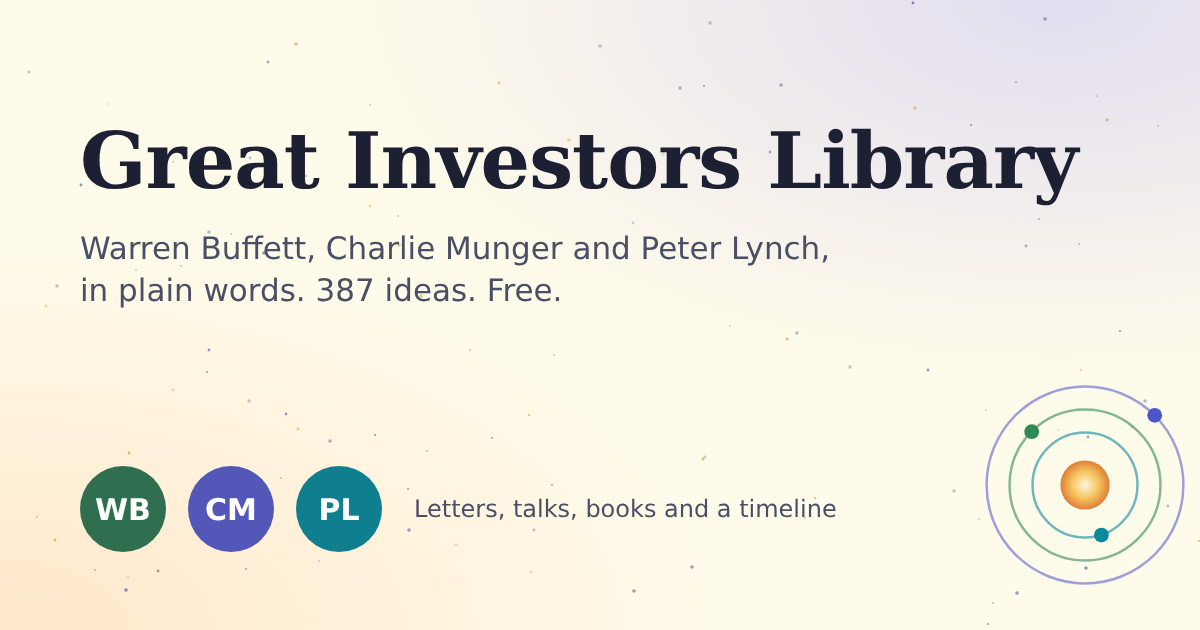
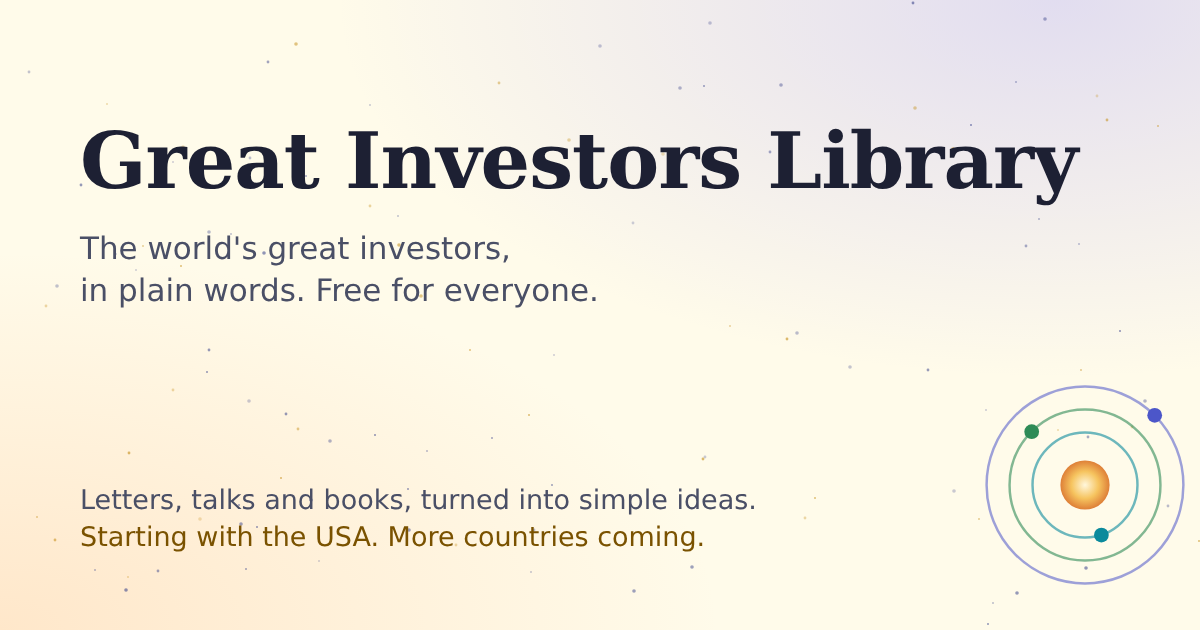
Add files via upload

Changed region(s): [[0.0617, 0.7238, 0.7092, 0.8746], [0.0617, 0.3619, 0.7092, 0.4825]]

diff --git a/index.html b/index.html
@@ -4,14 +4,14 @@
 <meta charset="utf-8">
 <meta name="viewport" content="width=device-width, initial-scale=1">
 <meta name="theme-color" content="#fbfbf7">
-<title>Great Investors Library: Buffett, Munger and Lynch in plain words</title>
-<meta name="description" content="Learn investing from Warren Buffett, Charlie Munger and Peter Lynch, in plain words. Free. 387 ideas from their letters, talks and books, a century timeline, and a could-you-have-held-on test."><link rel="canonical" href="https://greatinvestorslibrary.github.io/">
-<meta property="og:type" content="website"><meta property="og:site_name" content="Great Investors Library"><meta property="og:title" content="Great Investors Library: Buffett, Munger and Lynch in plain words">
-<meta property="og:description" content="Learn investing from Warren Buffett, Charlie Munger and Peter Lynch, in plain words. Free. 387 ideas from their letters, talks and books, a century timeline, and a could-you-have-held-on test."><meta property="og:url" content="https://greatinvestorslibrary.github.io/"><meta property="og:image" content="https://greatinvestorslibrary.github.io/og-image.png">
+<title>Great Investors Library: the world's great investors, in plain words</title>
+<meta name="description" content="Learn investing from the world&#x27;s great investors, in plain words. Free. 387 ideas from their letters, talks and books, starting with Warren Buffett, Charlie Munger and Peter Lynch, plus a century timeline and a could-you-have-held-on test."><link rel="canonical" href="https://greatinvestorslibrary.github.io/">
+<meta property="og:type" content="website"><meta property="og:site_name" content="Great Investors Library"><meta property="og:title" content="Great Investors Library: the world's great investors, in plain words">
+<meta property="og:description" content="Learn investing from the world&#x27;s great investors, in plain words. Free. 387 ideas from their letters, talks and books, starting with Warren Buffett, Charlie Munger and Peter Lynch, plus a century timeline and a could-you-have-held-on test."><meta property="og:url" content="https://greatinvestorslibrary.github.io/"><meta property="og:image" content="https://greatinvestorslibrary.github.io/og-image.png">
 <meta property="og:image:width" content="1200"><meta property="og:image:height" content="630"><meta name="twitter:card" content="summary_large_image">
-<meta name="twitter:title" content="Great Investors Library: Buffett, Munger and Lynch in plain words"><meta name="twitter:description" content="Learn investing from Warren Buffett, Charlie Munger and Peter Lynch, in plain words. Free. 387 ideas from their letters, talks and books, a century timeline, and a could-you-have-held-on test."><meta name="twitter:image" content="https://greatinvestorslibrary.github.io/og-image.png">
+<meta name="twitter:title" content="Great Investors Library: the world's great investors, in plain words"><meta name="twitter:description" content="Learn investing from the world&#x27;s great investors, in plain words. Free. 387 ideas from their letters, talks and books, starting with Warren Buffett, Charlie Munger and Peter Lynch, plus a century timeline and a could-you-have-held-on test."><meta name="twitter:image" content="https://greatinvestorslibrary.github.io/og-image.png">
 <link rel="icon" href="favicon.svg" type="image/svg+xml">
-<script type="application/ld+json">{"@context": "https://schema.org", "@type": "WebSite", "name": "Great Investors Library", "url": "https://greatinvestorslibrary.github.io/", "description": "Learn investing from Warren Buffett, Charlie Munger and Peter Lynch, in plain words. Free. 387 ideas from their letters, talks and books, a century timeline, and a could-you-have-held-on test.", "inLanguage": "en", "isAccessibleForFree": true}</script>
+<script type="application/ld+json">{"@context": "https://schema.org", "@type": "WebSite", "name": "Great Investors Library", "url": "https://greatinvestorslibrary.github.io/", "description": "Learn investing from the world's great investors, in plain words. Free. 387 ideas from their letters, talks and books, starting with Warren Buffett, Charlie Munger and Peter Lynch, plus a century timeline and a could-you-have-held-on test.", "inLanguage": "en", "isAccessibleForFree": true}</script>
 
 <style>
 /* Mobile-first. One column, vertical scrolling only. Bottom tab bar on phones, top tabs on wide screens.
@@ -953,6 +953,12 @@ details.acc.opening[open]>.accb{animation:accin .28s ease both}
 ::placeholder{color:#6b7177;opacity:1}
 @media (prefers-color-scheme: dark){ ::placeholder{color:#a3aaa6} }
 .foot .flinks{display:flex;flex-wrap:wrap;gap:6px 14px;margin-top:6px}
+/* country row */
+.ctry{display:flex;flex-wrap:wrap;align-items:center;justify-content:center;gap:8px;margin:28px 0 0}
+.ctry button{min-height:36px;padding:0 14px;border-radius:18px;border:1px solid var(--rule);background:var(--card);color:var(--ink);font-size:.9rem;font-weight:600;cursor:pointer}
+.ctry button.on{background:var(--ink);color:var(--paper);border-color:var(--ink)}
+.ctry .soon{font-size:.82rem;color:var(--muted)}
+.ctry+.picks{margin-top:14px}
 
 /* ================= TIMELINE · daytime astronomy (light lemon) =================
    In light mode the Timeline uses the same light ground as the rest of the site: a pale lemon sky with faint
@@ -1049,7 +1055,7 @@ html:root[data-pack="timeline"] .aM .dot,html:root[data-pack="timeline"] .aB .do
 </head>
 <body>
 <main id="app"></main>
-<noscript><div style='max-width:680px;margin:0 auto;padding:20px'><h1>Great Investors Library</h1><p>Learn investing from Warren Buffett, Charlie Munger and Peter Lynch, in plain words. Free.</p><ul><li><a href='buffett.html'>buffett.html</a></li><li><a href='munger.html'>munger.html</a></li><li><a href='lynch.html'>lynch.html</a></li><li><a href='timeline.html'>timeline.html</a></li><li><a href='library.html'>library.html</a></li><li><a href='about.html'>about.html</a></li></ul></div></noscript>
+<noscript><div style='max-width:680px;margin:0 auto;padding:20px'><h1>Great Investors Library</h1><p>Learn investing from the world&#x27;s great investors, in plain words. Free.</p><ul><li><a href='buffett.html'>buffett.html</a></li><li><a href='munger.html'>munger.html</a></li><li><a href='lynch.html'>lynch.html</a></li><li><a href='timeline.html'>timeline.html</a></li><li><a href='library.html'>library.html</a></li><li><a href='about.html'>about.html</a></li></ul></div></noscript>
 <nav aria-label="All pages" style="position:absolute;left:-9999px;top:auto;width:1px;height:1px;overflow:hidden"><a href="library.html">All pages</a> <a href="buffett.html">Warren Buffett</a> <a href="munger.html">Charlie Munger</a> <a href="lynch.html">Peter Lynch</a> <a href="timeline.html">Timeline</a></nav>
 <div id="tlPopHost"></div>
 <button id="toTop" aria-label="Back to top">↑</button>
@@ -1958,7 +1964,7 @@ const stripHead = h => h.replace(/^\s*<span class="eyebrow">[^<]*<\/span><h2>[^<
 function renderSecs(secs){ return secs.map((s,i)=>`<section class="psec" id="s-${s.id}"><header class="psh"><span class="psn">${i+1}</span><div><h2>${esc(s.title)}</h2>${s.sub?`<p class="ssub">${esc(s.sub)}</p>`:""}</div></header><div class="sb" id="sb-${s.id}">${s.html()}</div></section>`).join(""); }
 function topbar(title){ return `<div class="topbar"><div class="topbar-in"><a class="tback" href="#" aria-label="Back to the library">‹ Library</a><span class="bt">${esc(title)}</span><button class="cbtn" id="cBtn" aria-expanded="false" aria-controls="cMenu">Contents</button></div>
   <nav class="cmenu" id="cMenu" hidden><ol>${V4.secs.map(s=>`<li><button data-go="${s.id}">${esc(s.title)}</button></li>`).join("")}</ol></nav></div>`; }
-function footNote(){ return `<footer class="foot"><p>Great Investors Library is a free, independent study guide, for education only. It is not investment advice. Not affiliated with Berkshire Hathaway or any person or publisher named.</p><p class="flinks"><a href="#about">About and disclaimer</a><a href="#privacy">Privacy</a><a href="#terms">Terms of use</a></p></footer>`; }
+function footNote(){ return `<footer class="foot"><p>Great Investors Library is a free, independent study guide, for education only. It is not investment advice. Not affiliated with any person, company or publisher named.</p><p class="flinks"><a href="#about">About and disclaimer</a><a href="#privacy">Privacy</a><a href="#terms">Terms of use</a></p></footer>`; }
 
 /* ---------- home ---------- */
 function searchIndex(){ if(searchIndex.v) return searchIndex.v; const out=[];
@@ -1975,18 +1981,26 @@ function searchHTML(q){ q=q.trim().toLowerCase(); if(q.length<2) return "";
   const name=pid=>pid==="timeline"?"Timeline":PACKS[pid].short, mark=s=>{ let o=esc(s); words.forEach(w=>{ if(w.length>1) o=o.replace(new RegExp("("+w.replace(/[.*+?^${}()|[\]\\]/g,"\\$&")+")","ig"),"<mark>$1</mark>"); }); return o; };
   if(!hits.length) return `<p class="qnone">Nothing found for “${esc(q)}”. Try a simpler word, like <button class="golink" data-q="moat">moat</button>, <button class="golink" data-q="debt">debt</button> or <button class="golink" data-q="patience">patience</button>.</p>`;
   return `<p class="qcount">${hits.length} result${hits.length>1?"s":""}${hits.length>30?", showing the first 30":""}</p><ul class="qres">${hits.slice(0,30).map(r=>`<li><a href="${r.h}"><span class="qk">${esc(name(r.pid))} · ${esc(r.k)}</span><b>${mark(r.t)}</b><span class="qx">${mark(r.x.length>170?r.x.slice(0,167)+"…":r.x)}</span></a></li>`).join("")}</ul>`; }
+/* countries: add an entry here when the first investor from a new country joins; the row grows on its own */
+const COUNTRIES=[
+  {id:"usa", name:"USA", flag:"🇺🇸", picks:[
+    ["#buffett","WB","a-buffett","Warren Buffett","His 30 letters to Berkshire owners, 1995 to 2024"],
+    ["#munger","CM","a-munger","Charlie Munger","His talks and letters on thinking clearly, 1982 to 2014"],
+    ["#lynch","PL","a-lynch","Peter Lynch","His books and talks on finding good stocks yourself"],
+    ["#timeline","✦","a-timeline","The Timeline","Their three lives and one century, 1924 to today"]]},
+];
+V4.country = V4.country || COUNTRIES[0].id;
 function homeHTML(){ const total=INV.reduce((s,pid)=>s+Object.keys(PACKS[pid].nuggets).length+PACKS[pid].themes.length,0);
+  const C=COUNTRIES.find(c=>c.id===V4.country)||COUNTRIES[0];
   const pick=(h,ava,cls,t,sub)=>`<a class="pick" href="${h}"><span class="ava ${cls}">${ava}</span><span class="pt"><b>${t}</b><span>${sub}</span></span><span class="pgo" aria-hidden="true">›</span></a>`;
   return `<div class="home">
   <h1 class="logo">Great Investors Library</h1>
-  <p class="tagline">Learn investing from Warren Buffett, Charlie Munger and Peter Lynch, in plain words. Free.</p>
+  <p class="tagline">Learn investing from the world's great investors, in plain words. Free.</p>
   <div class="search"><input id="q" type="search" autocomplete="off" placeholder="Search ${total} ideas, e.g. moat" aria-label="Search the library" value="${esc(V4.q)}"></div>
   <div id="qres">${searchHTML(V4.q)}</div>
-  <nav class="picks" aria-label="Choose">
-    ${pick("#buffett","WB","a-buffett","Warren Buffett","His 30 letters to Berkshire owners, 1995 to 2024")}
-    ${pick("#munger","CM","a-munger","Charlie Munger","His talks and letters on thinking clearly, 1982 to 2014")}
-    ${pick("#lynch","PL","a-lynch","Peter Lynch","His books and talks on finding good stocks yourself")}
-    ${pick("#timeline","✦","a-timeline","The Timeline","Three lives and one century, 1924 to today")}
+  <div class="ctry" role="group" aria-label="Choose a country">${COUNTRIES.map(c=>`<button data-country="${c.id}" class="${c.id===C.id?"on":""}" aria-pressed="${c.id===C.id}"><span aria-hidden="true">${c.flag}</span> ${esc(c.name)}</button>`).join("")}<span class="soon">More countries coming</span></div>
+  <nav class="picks" aria-label="Investors from ${esc(C.name)}">
+    ${C.picks.map(x=>pick(...x)).join("")}
   </nav>
   <p class="new">New here? Start with <a href="#buffett">Buffett</a>. Then take the <a href="#timeline-invest">could-you-have-held-on test</a>.</p>
   <p class="hlinks"><a href="#journey">The builder's own record</a><span>·</span><a href="#about">About and disclaimer</a></p>
@@ -2115,7 +2129,7 @@ function journeyPage(){ const h=J.hero;
 /* ---------- about ---------- */
 function aboutPage(){
   V4.secs=[
-    sec("what","What this is","",()=>bl(["A free, independent study room for reading great investors in their own words.","Warren Buffett, Charlie Munger and Peter Lynch each have one page, built the same way: a five-minute summary, the big ideas, his special section, his own words, the originals, a test and a plan.","The Timeline sets all three lives side by side, year by year, from 1924 to today."],"plain")),
+    sec("what","What this is","",()=>bl(["A free, independent study room for learning from the world's great investors, in their own words and in plain ones.","Every investor gets one page, built the same way: a five-minute summary, the big ideas, his or her special section, their own words, the originals, a test and a plan.","It starts with the United States: Warren Buffett, Charlie Munger and Peter Lynch, plus a Timeline of their three lives. Investors from more countries will follow, chosen only where there is a public record of their own letters, books, talks or results."],"plain")),
     sec("words","Summaries and exact words","",()=>bl(["Every summary, idea and lesson is written in our own words.","Exact words appear only as short lines, with their source.","The originals are their authors' copyright, so longer passages are not reproduced. Each page links you to them."],"plain")),
     sec("disc","Disclaimer","",()=>`<div class="disc">${SITE_DISC.map(d=>`<p>${esc(d)}</p>`).join("")}</div>`),
   ];
@@ -2239,6 +2253,7 @@ document.addEventListener("click", e=>{
   const sm=e.target.closest("details.acc>summary"); if(sm && !REDUCED){ const d=sm.parentElement; if(!d.open){ d.classList.add("opening"); setTimeout(()=>d.classList.remove("opening"),400); } }
   const cb=e.target.closest("#cBtn"); if(cb){ const m=document.getElementById("cMenu"); m.hidden=!m.hidden; cb.setAttribute("aria-expanded", String(!m.hidden)); return; }
   const g=e.target.closest("[data-go]"); if(g){ e.preventDefault(); closeMenu(); const el = g.dataset.open ? openEl(g.dataset.open) : document.getElementById("s-"+g.dataset.go); scrollToEl(el, true); return; }
+  const cc=e.target.closest("[data-country]"); if(cc){ V4.country=cc.dataset.country; const app=document.getElementById("app"); app.innerHTML=homeHTML(); return; }
   const qb=e.target.closest("[data-q]"); if(qb){ const i=document.getElementById("q"); if(i){ i.value=qb.dataset.q; V4.q=i.value; document.getElementById("qres").innerHTML=searchHTML(V4.q); } return; }
   if(!e.target.closest("#cMenu")) closeMenu();
   const a=e.target.closest('a[href^="#"]'); if(a && !e.defaultPrevented){ const h=a.getAttribute("href"); if(h===location.hash || (h==="#" && !location.hash)){ e.preventDefault(); navigate(route(h)); } }

diff --git a/library.html b/library.html
@@ -8,5 +8,5 @@
 <link rel="icon" href="favicon.svg" type="image/svg+xml"><link rel="stylesheet" href="style.css">
 <script type="application/ld+json">{"@context": "https://schema.org", "@type": "Article", "headline": "All pages | Great Investors Library", "description": "Every page of the Great Investors Library: Buffett, Munger and Lynch, idea by idea, and the century timeline.", "url": "https://greatinvestorslibrary.github.io/library.html", "inLanguage": "en", "isAccessibleForFree": true, "publisher": {"@type": "Organization", "name": "Great Investors Library"}, "dateModified": "2026-11-24"}</script></head>
 <body><header class="b"><div class="w"><a href="index.html">Great Investors Library</a><a href="library.html">All pages</a></div></header>
-<main class="w"><h1>Every page in the library</h1><h2><a href='buffett.html'>Warren Buffett</a></h2><ol><li><a href='ideas/buffett-01-a-share-is-a-slice-of-a-business.html'>A share is a slice of a business</a></li><li><a href='ideas/buffett-02-moats-what-makes-a-business-worth-owning.html'>Moats: what makes a business worth owning</a></li><li><a href='ideas/buffett-03-price-value-and-the-margin-of-safety.html'>Price, value and the margin of safety</a></li><li><a href='ideas/buffett-04-mr-market-and-temperament.html'>Mr. Market and temperament</a></li><li><a href='ideas/buffett-05-activity-costs-and-patience.html'>Activity, costs and patience</a></li><li><a href='ideas/buffett-06-risk-debt-and-survival.html'>Risk, debt and survival</a></li><li><a href='ideas/buffett-07-circle-of-competence.html'>Circle of competence</a></li><li><a href='ideas/buffett-08-capital-allocation-what-happens-to-retained-profit.html'>Capital allocation: what happens to retained profit</a></li><li><a href='ideas/buffett-09-acquisitions-a-test-for-any-company-that-buys-others.html'>Acquisitions: a test for any company that buys others</a></li><li><a href='ideas/buffett-10-managers-pay-and-boards.html'>Managers, pay and boards</a></li><li><a href='ideas/buffett-11-accounting-read-like-an-owner.html'>Accounting: read like an owner</a></li><li><a href='ideas/buffett-12-insurance-float-and-the-discipline-of-saying-no.html'>Insurance: float and the discipline of saying no</a></li><li><a href='ideas/buffett-13-mistakes-his-own-list.html'>Mistakes: his own list</a></li><li><a href='ideas/buffett-14-productive-assets-inflation-and-the-long-view.html'>Productive assets, inflation and the long view</a></li></ol><h2><a href='munger.html'>Charlie Munger</a></h2><ol><li><a href='ideas/munger-01-a-latticework-of-models.html'>A latticework of models</a></li><li><a href='ideas/munger-02-invert-always-invert.html'>Invert, always invert</a></li><li><a href='ideas/munger-03-incentives.html'>Incentives</a></li><li><a href='ideas/munger-04-the-psychology-of-misjudgment.html'>The psychology of misjudgment</a></li><li><a href='ideas/munger-05-the-inner-life-envy-resentment-self-pity.html'>The inner life: envy, resentment, self-pity</a></li><li><a href='ideas/munger-06-reliability-trust-and-deserving.html'>Reliability, trust and deserving</a></li><li><a href='ideas/munger-07-learning-for-life.html'>Learning for life</a></li><li><a href='ideas/munger-08-objectivity-and-the-edge-of-what-you-know.html'>Objectivity and the edge of what you know</a></li><li><a href='ideas/munger-09-investing-few-great-and-then-sit.html'>Investing: few, great, and then sit</a></li><li><a href='ideas/munger-10-business-models-moats-and-scale.html'>Business models, moats and scale</a></li><li><a href='ideas/munger-11-costs-consultants-and-febezzlement.html'>Costs, consultants and febezzlement</a></li><li><a href='ideas/munger-12-accounting-honesty-and-candour.html'>Accounting, honesty and candour</a></li><li><a href='ideas/munger-13-adversity-patience-and-hard-work.html'>Adversity, patience and hard work</a></li><li><a href='ideas/munger-14-the-berkshire-system-in-his-words.html'>The Berkshire system, in his words</a></li></ol><h2><a href='lynch.html'>Peter Lynch</a></h2><ol><li><a href='ideas/lynch-01-the-amateurs-edge.html'>The amateur&#x27;s edge</a></li><li><a href='ideas/lynch-02-is-it-gambling-stocks-and-your-stomach.html'>Is it gambling? Stocks and your stomach</a></li><li><a href='ideas/lynch-03-look-in-your-own-backyard.html'>Look in your own backyard</a></li><li><a href='ideas/lynch-04-the-six-kinds-of-stock.html'>The six kinds of stock</a></li><li><a href='ideas/lynch-05-the-perfect-stock-and-the-ones-to-avoid.html'>The perfect stock, and the ones to avoid</a></li><li><a href='ideas/lynch-06-earnings-are-the-engine.html'>Earnings are the engine</a></li><li><a href='ideas/lynch-07-the-famous-numbers.html'>The famous numbers</a></li><li><a href='ideas/lynch-08-balance-sheet-first.html'>Balance sheet first</a></li><li><a href='ideas/lynch-09-the-two-minute-drill.html'>The two-minute drill</a></li><li><a href='ideas/lynch-10-ten-baggers-let-the-winners-run.html'>Ten-baggers: let the winners run</a></li><li><a href='ideas/lynch-11-dont-time-the-market.html'>Don&#x27;t time the market</a></li><li><a href='ideas/lynch-12-keep-checking-the-story.html'>Keep checking the story</a></li></ol><h2><a href='timeline.html'>The Timeline</a></h2><p><a href='index.html'>The interactive library</a> · <a href='about.html'>About</a> · <a href='privacy.html'>Privacy</a> · <a href='terms.html'>Terms of use</a></p>
+<main class="w"><h1>Every page in the library</h1><h2 style='border:0;padding-top:0'>🇺🇸 USA</h2><h2><a href='buffett.html'>Warren Buffett</a></h2><ol><li><a href='ideas/buffett-01-a-share-is-a-slice-of-a-business.html'>A share is a slice of a business</a></li><li><a href='ideas/buffett-02-moats-what-makes-a-business-worth-owning.html'>Moats: what makes a business worth owning</a></li><li><a href='ideas/buffett-03-price-value-and-the-margin-of-safety.html'>Price, value and the margin of safety</a></li><li><a href='ideas/buffett-04-mr-market-and-temperament.html'>Mr. Market and temperament</a></li><li><a href='ideas/buffett-05-activity-costs-and-patience.html'>Activity, costs and patience</a></li><li><a href='ideas/buffett-06-risk-debt-and-survival.html'>Risk, debt and survival</a></li><li><a href='ideas/buffett-07-circle-of-competence.html'>Circle of competence</a></li><li><a href='ideas/buffett-08-capital-allocation-what-happens-to-retained-profit.html'>Capital allocation: what happens to retained profit</a></li><li><a href='ideas/buffett-09-acquisitions-a-test-for-any-company-that-buys-others.html'>Acquisitions: a test for any company that buys others</a></li><li><a href='ideas/buffett-10-managers-pay-and-boards.html'>Managers, pay and boards</a></li><li><a href='ideas/buffett-11-accounting-read-like-an-owner.html'>Accounting: read like an owner</a></li><li><a href='ideas/buffett-12-insurance-float-and-the-discipline-of-saying-no.html'>Insurance: float and the discipline of saying no</a></li><li><a href='ideas/buffett-13-mistakes-his-own-list.html'>Mistakes: his own list</a></li><li><a href='ideas/buffett-14-productive-assets-inflation-and-the-long-view.html'>Productive assets, inflation and the long view</a></li></ol><h2><a href='munger.html'>Charlie Munger</a></h2><ol><li><a href='ideas/munger-01-a-latticework-of-models.html'>A latticework of models</a></li><li><a href='ideas/munger-02-invert-always-invert.html'>Invert, always invert</a></li><li><a href='ideas/munger-03-incentives.html'>Incentives</a></li><li><a href='ideas/munger-04-the-psychology-of-misjudgment.html'>The psychology of misjudgment</a></li><li><a href='ideas/munger-05-the-inner-life-envy-resentment-self-pity.html'>The inner life: envy, resentment, self-pity</a></li><li><a href='ideas/munger-06-reliability-trust-and-deserving.html'>Reliability, trust and deserving</a></li><li><a href='ideas/munger-07-learning-for-life.html'>Learning for life</a></li><li><a href='ideas/munger-08-objectivity-and-the-edge-of-what-you-know.html'>Objectivity and the edge of what you know</a></li><li><a href='ideas/munger-09-investing-few-great-and-then-sit.html'>Investing: few, great, and then sit</a></li><li><a href='ideas/munger-10-business-models-moats-and-scale.html'>Business models, moats and scale</a></li><li><a href='ideas/munger-11-costs-consultants-and-febezzlement.html'>Costs, consultants and febezzlement</a></li><li><a href='ideas/munger-12-accounting-honesty-and-candour.html'>Accounting, honesty and candour</a></li><li><a href='ideas/munger-13-adversity-patience-and-hard-work.html'>Adversity, patience and hard work</a></li><li><a href='ideas/munger-14-the-berkshire-system-in-his-words.html'>The Berkshire system, in his words</a></li></ol><h2><a href='lynch.html'>Peter Lynch</a></h2><ol><li><a href='ideas/lynch-01-the-amateurs-edge.html'>The amateur&#x27;s edge</a></li><li><a href='ideas/lynch-02-is-it-gambling-stocks-and-your-stomach.html'>Is it gambling? Stocks and your stomach</a></li><li><a href='ideas/lynch-03-look-in-your-own-backyard.html'>Look in your own backyard</a></li><li><a href='ideas/lynch-04-the-six-kinds-of-stock.html'>The six kinds of stock</a></li><li><a href='ideas/lynch-05-the-perfect-stock-and-the-ones-to-avoid.html'>The perfect stock, and the ones to avoid</a></li><li><a href='ideas/lynch-06-earnings-are-the-engine.html'>Earnings are the engine</a></li><li><a href='ideas/lynch-07-the-famous-numbers.html'>The famous numbers</a></li><li><a href='ideas/lynch-08-balance-sheet-first.html'>Balance sheet first</a></li><li><a href='ideas/lynch-09-the-two-minute-drill.html'>The two-minute drill</a></li><li><a href='ideas/lynch-10-ten-baggers-let-the-winners-run.html'>Ten-baggers: let the winners run</a></li><li><a href='ideas/lynch-11-dont-time-the-market.html'>Don&#x27;t time the market</a></li><li><a href='ideas/lynch-12-keep-checking-the-story.html'>Keep checking the story</a></li></ol><h2><a href='timeline.html'>The Timeline</a></h2><p><a href='index.html'>The interactive library</a> · <a href='about.html'>About</a> · <a href='privacy.html'>Privacy</a> · <a href='terms.html'>Terms of use</a></p>
 <footer><p>Great Investors Library is a free, independent study guide, for education only. Not investment advice. Not affiliated with any person or company named.</p><p><a href="about.html">About</a> · <a href="privacy.html">Privacy</a> · <a href="terms.html">Terms of use</a></p><div class="disc"><p>For educational and informational purposes only. This site is an independent study guide for general learning.</p><p>Not advice. Nothing here is investment, financial, legal, tax or accounting advice, and nothing is a recommendation or solicitation to buy, sell or hold any security. It does not take account of any reader&#x27;s objectives or circumstances. Investing involves risk, including loss of capital. Past results do not predict future results.</p><p>No warranty. The content paraphrases and interprets public documents and may contain errors or omissions. It is provided as is, without warranty of any kind as to accuracy or completeness. Check everything against the originals.</p><p>No liability. To the fullest extent permitted by law, no liability is accepted for any loss or damage arising from use of or reliance on this site.</p><p>Independent. This site is not affiliated with, endorsed, sponsored or reviewed by Berkshire Hathaway, Warren Buffett, Charlie Munger&#x27;s estate, Peter Lynch, Fidelity, any publisher, or any company named. All trademarks and copyrights belong to their owners. Exact quotations are kept short and remain their authors&#x27; copyright.</p></div></footer></main></body></html>

diff --git a/about.html b/about.html
@@ -8,5 +8,5 @@
 <link rel="icon" href="favicon.svg" type="image/svg+xml"><link rel="stylesheet" href="style.css">
 <script type="application/ld+json">{"@context": "https://schema.org", "@type": "Article", "headline": "About | Great Investors Library", "description": "What the Great Investors Library is, how it was made, and what it is not.", "url": "https://greatinvestorslibrary.github.io/about.html", "inLanguage": "en", "isAccessibleForFree": true, "publisher": {"@type": "Organization", "name": "Great Investors Library"}, "dateModified": "2026-11-24"}</script></head>
 <body><header class="b"><div class="w"><a href="index.html">Great Investors Library</a><a href="library.html">All pages</a></div></header>
-<main class="w"><h1>About the library</h1><ul><li>A free, independent study room for reading great investors in their own words.</li><li>Warren Buffett, Charlie Munger and Peter Lynch each have one page, built the same way: a five-minute summary, the big ideas, his special section, his own words, the originals, a test and a plan.</li><li>The Timeline sets all three lives side by side, year by year, from 1924 to today.</li><li>Every summary is written in our own words. Exact words appear only as short lines, with their source. Each page links you to the originals.</li></ul><p>The text written for this site may be shared and reused under the Creative Commons Attribution 4.0 licence (CC BY 4.0). Quotations remain the copyright of their authors.</p>
+<main class="w"><h1>About the library</h1><ul><li>A free, independent study room for learning from the world's great investors, in their own words and in plain ones.</li><li>Every investor gets one page, built the same way: a five-minute summary, the big ideas, a special section, their own words, the originals, a test and a plan.</li><li>It starts with the United States: Warren Buffett, Charlie Munger and Peter Lynch, plus a Timeline of their three lives. Investors from more countries will follow, chosen only where there is a public record of their own letters, books, talks or results.</li><li>Every summary is written in our own words. Exact words appear only as short lines, with their source. Each page links you to the originals.</li></ul><p>The text written for this site may be shared and reused under the Creative Commons Attribution 4.0 licence (CC BY 4.0). Quotations remain the copyright of their authors.</p>
 <footer><p>Great Investors Library is a free, independent study guide, for education only. Not investment advice. Not affiliated with any person or company named.</p><p><a href="about.html">About</a> · <a href="privacy.html">Privacy</a> · <a href="terms.html">Terms of use</a></p><div class="disc"><p>For educational and informational purposes only. This site is an independent study guide for general learning.</p><p>Not advice. Nothing here is investment, financial, legal, tax or accounting advice, and nothing is a recommendation or solicitation to buy, sell or hold any security. It does not take account of any reader&#x27;s objectives or circumstances. Investing involves risk, including loss of capital. Past results do not predict future results.</p><p>No warranty. The content paraphrases and interprets public documents and may contain errors or omissions. It is provided as is, without warranty of any kind as to accuracy or completeness. Check everything against the originals.</p><p>No liability. To the fullest extent permitted by law, no liability is accepted for any loss or damage arising from use of or reliance on this site.</p><p>Independent. This site is not affiliated with, endorsed, sponsored or reviewed by Berkshire Hathaway, Warren Buffett, Charlie Munger&#x27;s estate, Peter Lynch, Fidelity, any publisher, or any company named. All trademarks and copyrights belong to their owners. Exact quotations are kept short and remain their authors&#x27; copyright.</p></div></footer></main></body></html>

diff --git a/README.md b/README.md
@@ -1,6 +1,8 @@
 # Great Investors Library
 
-Learn investing from Warren Buffett, Charlie Munger and Peter Lynch, in plain words. Free.
+Learn investing from the world's great investors, in plain words. Free.
+
+It starts with the United States. Investors from more countries will follow.
 
 - **Warren Buffett:** his 30 letters to Berkshire Hathaway shareholders (1995 to 2024), as 14 big ideas and 127 lessons.
 - **Charlie Munger:** his talks and letters (1982 to 2014), as 14 big ideas, 134 lessons and his 25 mental traps.
